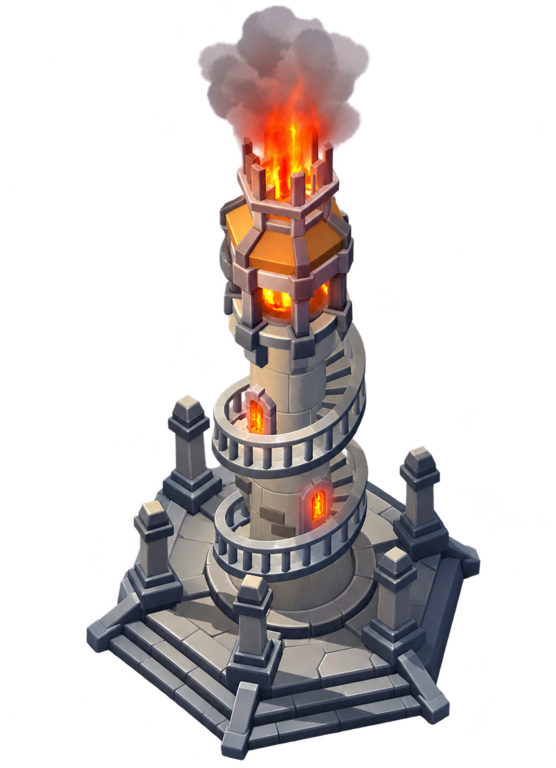
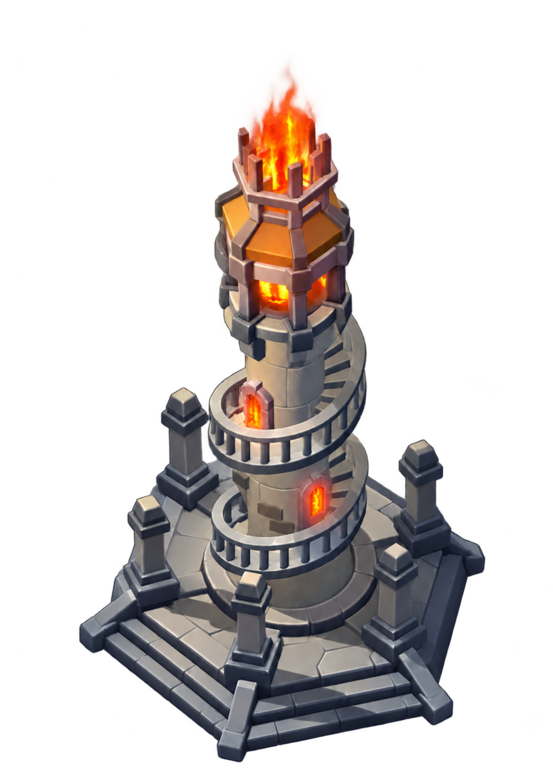
Remove smoke from furnace levels 16 to 18

Changed region(s): [[0.123, 0.0, 0.8915, 1.0]]

diff --git a/src/app.js b/src/app.js
@@ -66,7 +66,7 @@ const furnaceVisualAssets={
 function furnaceVisual(level){
   const asset=furnaceVisualAssets[level.id];
   return asset
-    ? `<img src="assets/visuals/furnaces/${asset}?v=20261008-furnace-level-assets-16-18" alt="Chaudière ${level.id}" draggable="false">`
+    ? `<img src="assets/visuals/furnaces/${asset}?v=20261008-furnace-level-assets-16-18-no-smoke" alt="Chaudière ${level.id}" draggable="false">`
     : '<span class="furnace-placeholder" aria-hidden="true"><span class="furnace-placeholder-stack"></span><span class="furnace-placeholder-door">🔥</span></span>';
 }
 function furnaceLevelParts(level){
